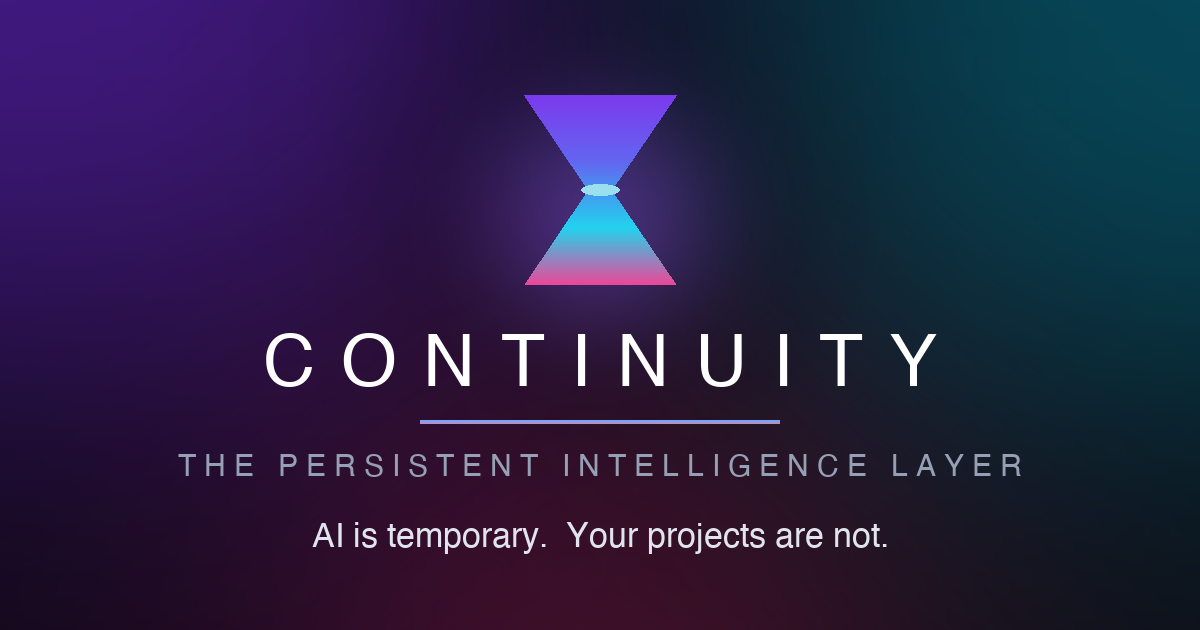
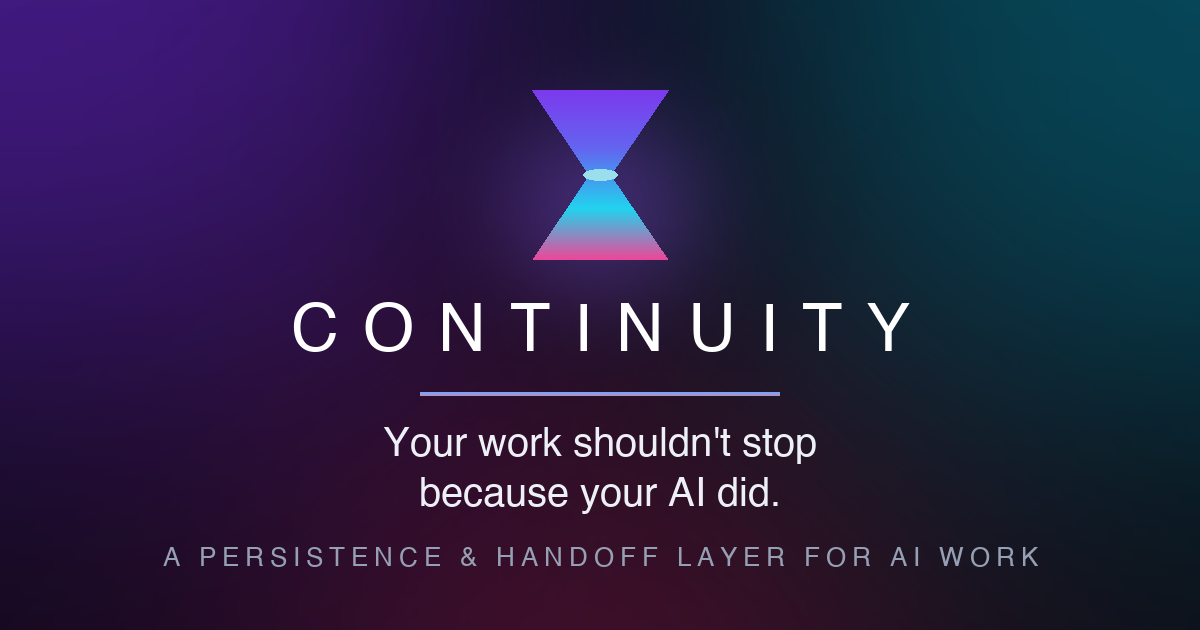
site: align messaging — persistence/handoff positioning, rate-limit wedge, Memory vs Continuity section, new tagline + OG

diff --git a/site/index.html b/site/index.html
@@ -3,8 +3,8 @@
 <head>
 <meta charset="UTF-8" />
 <meta name="viewport" content="width=device-width, initial-scale=1.0" />
-<title>Continuity — The Persistent Intelligence Layer</title>
-<meta name="description" content="Continuity is the persistent memory and orchestration layer above AI systems. Never lose project context again — across Claude, GPT, Cursor, and Gemini." />
+<title>Continuity — Your work shouldn't stop because your AI did</title>
+<meta name="description" content="Continuity is a persistence and handoff layer for AI work. It preserves your goals, decisions, and project state so work survives rate limits, lost context, and switching models — across Claude, GPT, Cursor, and Gemini." />
 <meta name="theme-color" content="#05060a" />
 <link rel="canonical" href="https://continuity.leondragon3798.workers.dev/" />
 
@@ -16,8 +16,8 @@
 <!-- Open Graph -->
 <meta property="og:type" content="website" />
 <meta property="og:site_name" content="Continuity" />
-<meta property="og:title" content="Continuity — The Persistent Intelligence Layer" />
-<meta property="og:description" content="The memory and orchestration layer above AI systems. AI is temporary — your projects are not." />
+<meta property="og:title" content="Continuity — Your work shouldn't stop because your AI did" />
+<meta property="og:description" content="A persistence and handoff layer for AI work. Continuity preserves your goals, decisions, and state so projects survive rate limits, lost context, and switching models." />
 <meta property="og:url" content="https://continuity.leondragon3798.workers.dev/" />
 <meta property="og:image" content="https://continuity.leondragon3798.workers.dev/og.png" />
 <meta property="og:image:width" content="1200" />
@@ -25,8 +25,8 @@
 
 <!-- Twitter -->
 <meta name="twitter:card" content="summary_large_image" />
-<meta name="twitter:title" content="Continuity — The Persistent Intelligence Layer" />
-<meta name="twitter:description" content="The memory and orchestration layer above AI systems. AI is temporary — your projects are not." />
+<meta name="twitter:title" content="Continuity — Your work shouldn't stop because your AI did" />
+<meta name="twitter:description" content="A persistence and handoff layer for AI work. Continuity preserves your goals, decisions, and state so projects survive rate limits, lost context, and switching models." />
 <meta name="twitter:image" content="https://continuity.leondragon3798.workers.dev/og.png" />
 
 <link rel="preload" href="fonts/satoshi-900.woff2" as="font" type="font/woff2" crossorigin />
@@ -125,14 +125,14 @@
       <span class="halo"></span>
     </div>
     <div class="wordmark reveal-now" style="--d:.08s">CONTINUITY</div>
-    <p class="eyebrow reveal-now" style="--d:.16s">THE PERSISTENT INTELLIGENCE LAYER</p>
+    <p class="eyebrow reveal-now" style="--d:.16s">A PERSISTENCE &amp; HANDOFF LAYER FOR AI WORK</p>
     <h1 class="hero-title">
-      <span class="line" style="--d:.2s">AI is temporary.</span>
-      <span class="line grad" style="--d:.38s">Your projects are not.</span>
+      <span class="line" style="--d:.2s">Your work shouldn't stop</span>
+      <span class="line grad" style="--d:.38s">because your AI did.</span>
     </h1>
     <p class="hero-sub reveal-now" style="--d:.6s">
-      Continuity is the memory and orchestration layer <em>above</em> AI systems —
-      preserving state, decisions, and momentum across Claude, GPT, Cursor, and Gemini.
+      Continuity preserves your goals, decisions, and project state —
+      so work survives <em>rate limits</em>, lost context, and switching models.
     </p>
     <div class="hero-actions reveal-now" style="--d:.8s">
       <a href="#cta" class="btn btn-primary magnetic">Start building</a>
@@ -210,8 +210,8 @@
   <!-- ░░ WORKFLOW COMPARISON ░░ -->
   <section class="section dark-band" id="workflow">
     <div class="container">
-      <p class="kicker reveal">EVOLUTION OF WORKFLOW</p>
-      <h2 class="headline reveal">From context loss<br>to <span class="grad">continuous progress.</span></h2>
+      <p class="kicker reveal">HIT THE RATE LIMIT. KEEP SHIPPING.</p>
+      <h2 class="headline reveal">Claude stopped.<br><span class="grad">The project didn't.</span></h2>
       <div class="compare">
         <div class="flow flow-bad reveal">
           <h4>Traditional Workflow</h4>
@@ -297,6 +297,34 @@
           <h3>Model Agnostic</h3>
           <p>Move between Claude, GPT, and Cursor without losing a single detail of project context.</p>
         </article>
+      </div>
+    </div>
+  </section>
+
+  <!-- ░░ MEMORY VS CONTINUITY ░░ -->
+  <section class="section dark-band" id="memory-vs">
+    <div class="container">
+      <p class="kicker reveal">MEMORY VS CONTINUITY</p>
+      <h2 class="headline reveal">Knowing a project isn't<br><span class="grad">the same as continuing it.</span></h2>
+      <div class="vs">
+        <article class="vs-card reveal">
+          <span class="vs-tag">Memory</span>
+          <h3>“What do&nbsp;I&nbsp;know?”</h3>
+          <p>Retrieves information.</p>
+        </article>
+        <span class="vs-arrow reveal" style="--d:.1s" aria-hidden="true">
+          <svg viewBox="0 0 40 24" fill="none" stroke="currentColor" stroke-width="2" stroke-linecap="round" stroke-linejoin="round"><path d="M2 12h34"/><path d="m28 4 8 8-8 8"/></svg>
+        </span>
+        <article class="vs-card vs-card--accent reveal" style="--d:.2s">
+          <span class="vs-tag">Continuity</span>
+          <h3>“What was&nbsp;I&nbsp;doing?”</h3>
+          <p>Preserves work.</p>
+        </article>
+      </div>
+      <p class="vs-foot reveal">So an AI can actually pick up the work — it keeps the things work needs:</p>
+      <div class="vs-chips reveal">
+        <span>Goals</span><span>Intent</span><span>Decisions</span><span>Failed attempts</span>
+        <span>Priorities</span><span>Remaining tasks</span><span>Current state</span><span>Next actions</span>
       </div>
     </div>
   </section>
@@ -424,7 +452,7 @@
       <p class="big-line reveal">Git stores <span class="muted">Code.</span></p>
       <p class="big-line reveal" style="--d:.12s">Databases store <span class="muted">Data.</span></p>
       <p class="big-line reveal" style="--d:.24s">Continuity stores <span class="grad">Understanding.</span></p>
-      <p class="manifesto-sub reveal" style="--d:.4s">A world where no project ever loses momentum, and no knowledge disappears.</p>
+      <p class="manifesto-sub reveal" style="--d:.4s">Conversations are temporary. Projects shouldn't be.</p>
     </div>
   </section>
 
@@ -455,7 +483,7 @@
 
   <footer class="footer">
     <div class="footer-mark"><svg class="mark mark-sm" viewBox="0 0 100 130"><use href="#hourglass"/></svg> Continuity</div>
-    <p>The Persistent Intelligence Layer for AI-Powered Work.</p>
+    <p>A persistence &amp; handoff layer for AI work. Your work shouldn't stop because your AI did.</p>
     <p class="copy">© 2026 Continuity · Local-first · MIT Licensed</p>
   </footer>
 

diff --git a/site/css/style.css b/site/css/style.css
@@ -230,6 +230,30 @@ em{font-style:normal;color:#fff}
 .flow-good::after{content:"";position:absolute;inset:0;border-radius:24px;padding:1px;background:var(--grad);
   -webkit-mask:linear-gradient(#000 0 0) content-box,linear-gradient(#000 0 0);-webkit-mask-composite:xor;mask-composite:exclude;opacity:.6;pointer-events:none}
 
+/* ── Memory vs Continuity ─────────────────────────── */
+.vs{display:flex;align-items:stretch;justify-content:center;gap:22px;flex-wrap:wrap}
+.vs-card{flex:1 1 0;min-width:260px;max-width:420px;padding:40px 34px;border-radius:24px;
+  border:1px solid var(--card-bd);background:var(--card);text-align:center;transition:.5s var(--ease);position:relative;overflow:hidden}
+.vs-tag{display:inline-block;font-size:12px;letter-spacing:.18em;text-transform:uppercase;font-weight:600;color:var(--muted);margin-bottom:16px}
+.vs-card h3{font-size:clamp(26px,3.4vw,38px);font-weight:800;letter-spacing:-.03em;line-height:1.05;margin-bottom:10px}
+.vs-card p{color:var(--muted);font-size:16px}
+.vs-card--accent{border-color:transparent}
+.vs-card--accent .vs-tag{color:#c4b5fd}
+.vs-card--accent h3{background:var(--grad);-webkit-background-clip:text;background-clip:text;color:transparent}
+.vs-card--accent::after{content:"";position:absolute;inset:0;border-radius:24px;padding:1px;background:var(--grad);
+  -webkit-mask:linear-gradient(#000 0 0) content-box,linear-gradient(#000 0 0);-webkit-mask-composite:xor;mask-composite:exclude;pointer-events:none}
+.vs-card--accent{box-shadow:0 0 50px rgba(139,92,246,.18)}
+.vs-card:hover{transform:translateY(-5px)}
+.vs-arrow{flex:none;align-self:center;width:48px;height:48px;display:grid;place-items:center;color:var(--violet)}
+.vs-arrow svg{width:38px;height:24px;animation:vsArrow 1.8s ease-in-out infinite}
+@keyframes vsArrow{0%,100%{transform:translateX(0);opacity:.6}50%{transform:translateX(5px);opacity:1}}
+.vs-foot{text-align:center;color:var(--muted);margin:42px 0 18px;font-size:16px}
+.vs-chips{display:flex;flex-wrap:wrap;justify-content:center;gap:10px}
+.vs-chips span{font-size:14px;font-weight:500;color:#d7dbe8;padding:9px 16px;border-radius:999px;
+  border:1px solid var(--card-bd);background:rgba(255,255,255,.04);transition:.3s var(--ease)}
+.vs-chips span:hover{border-color:rgba(255,255,255,.25);color:#fff;transform:translateY(-2px)}
+@media(max-width:680px){.vs-arrow{transform:rotate(90deg)}}
+
 /* ── Pillars ──────────────────────────────────────── */
 .pillars{display:grid;grid-template-columns:repeat(auto-fit,minmax(260px,1fr));gap:22px}
 .pillar{padding:40px 32px;border-radius:24px;border:1px solid var(--card-bd);background:var(--card);transition:.5s var(--ease)}